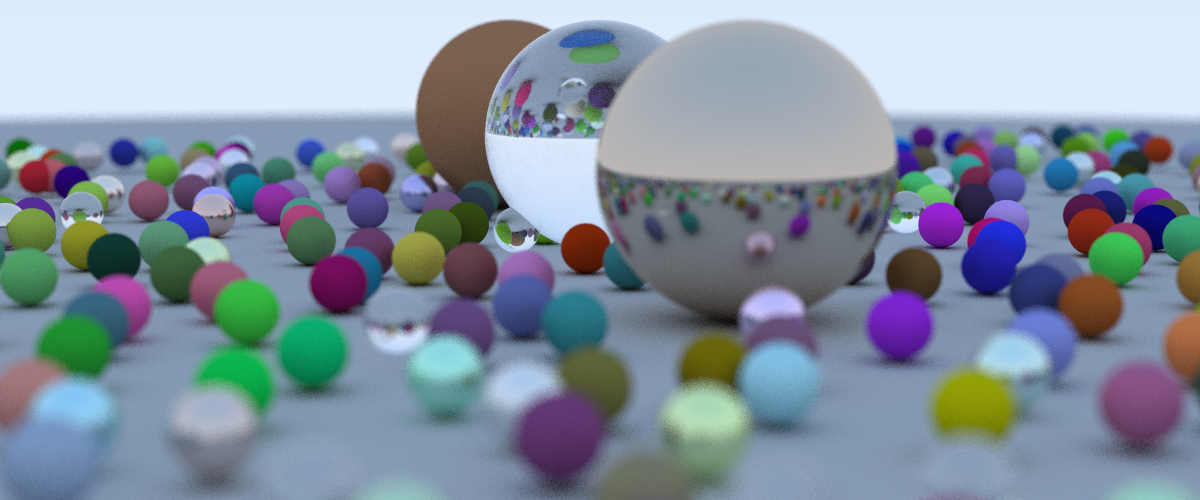
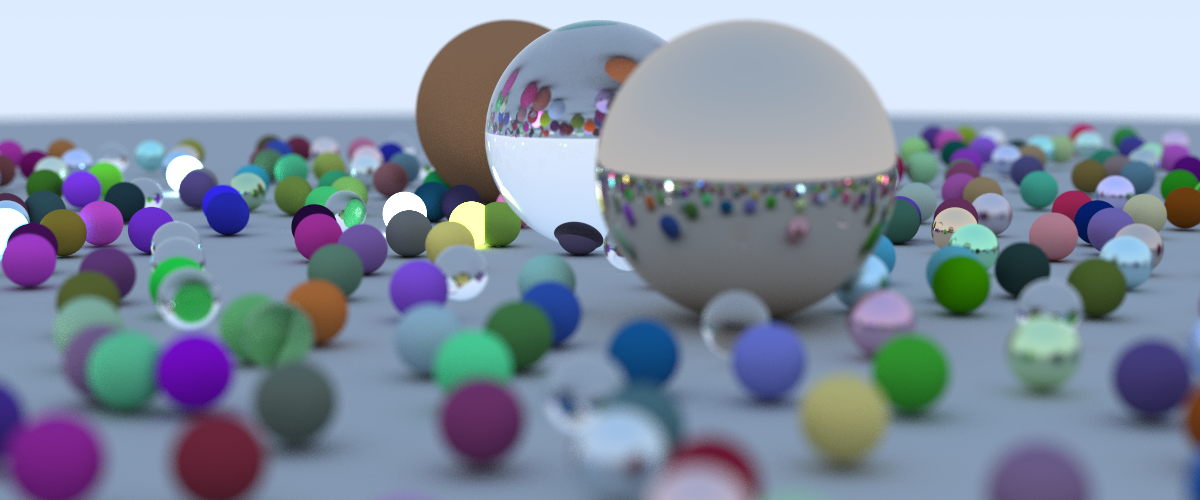
Added support for emissive materials.

diff --git a/src/main.rs b/src/main.rs
@@ -8,18 +8,32 @@ use vec3::Vec3;
 use ray::Ray;
 use camera::Camera;
 use hitable::Hitable;
-use crate::hitable::{Sphere, HitableList};
+use hitable::{Sphere, HitableList};
 use rand::{thread_rng, Rng};
-use crate::material::Material;
+use material::Material;
 use rand::prelude::ThreadRng;
 use rayon::prelude::*;
+
+// Clamps a value between two bounds
+fn clamp<T: PartialOrd>(value: T, lower: T, upper: T) -> T {
+    if value < lower {
+        lower
+    } else if value > upper {
+        upper
+    } else {
+        value
+    }
+}
 
 fn color(r: Ray, world: &dyn Hitable, depth: usize) -> Vec3 {
     match world.hit(r, 0.001, std::f64::INFINITY) {
         Some((hit_record, material)) => {
             let (scattered, attenuation, b) = material.scatter(r, hit_record.normal, hit_record.p);
+
             if depth < 50 && b {
                 color(scattered, world, depth + 1) * attenuation
+            } else if depth < 50 {
+                attenuation
             } else {
                 Vec3::new(0.0, 0.0, 0.0)
             }
@@ -41,12 +55,14 @@ fn random_scene(mut rng: ThreadRng) -> HitableList {
             let choose_mat = rng.gen::<f64>();
             let center = Vec3::new(a as f64 + 0.9 * rng.gen::<f64>(), 0.2, b as f64 + 0.9 * rng.gen::<f64>());
             if (center - Vec3::new(4.0, 0.2, 0.0)).length() > 0.9 {
-                if choose_mat < 0.8 {
+                if choose_mat < 0.75 {
                     list.push(Box::new(Sphere::new(center, 0.2, Material::Lambertian {attenuation: Vec3::new(rng.gen::<f64>() * rng.gen::<f64>(), rng.gen::<f64>() * rng.gen::<f64>(), rng.gen::<f64>() * rng.gen::<f64>())})));
-                } else if choose_mat < 0.95 {
+                } else if choose_mat < 0.90 {
                     list.push(Box::new(Sphere::new(center, 0.2, Material::Metal {attenuation: Vec3::new(0.5 * (1.0 + rng.gen::<f64>()), 0.5 * (1.0 + rng.gen::<f64>()), 0.5 * (1.0 + rng.gen::<f64>())), fuzziness: 0.5 * rng.gen::<f64>()})));
-                } else {
+                } else if choose_mat < 0.975 {
                     list.push(Box::new(Sphere::new(center, 0.2, Material::Dielectric {refraction: 1.5})));
+                } else {
+                    list.push(Box::new(Sphere::new(center, 0.2, Material::Emission {color: Vec3::new(rng.gen::<f64>(), rng.gen::<f64>(), rng.gen::<f64>()) * 10.0})));
                 }
             }
         }
@@ -63,7 +79,7 @@ fn main() {
     let width: usize = 1200;
     let height: usize = 500;
     let max_color: f64 = 255.999;
-    let samples = 100;
+    let samples = 500;
 
     let world = random_scene(thread_rng());
 
@@ -93,14 +109,15 @@ fn main() {
                 col = col / samples as f64;
                 col = Vec3::new(col.x.sqrt(), col.y.sqrt(), col.z.sqrt());
 
-                let ir: u8 = (max_color * col.x) as u8;
-                let ig: u8 = (max_color * col.y) as u8;
-                let ib: u8 = (max_color * col.z) as u8;
+                let ir: u8 = (max_color * clamp(col.x, 0.0, 1.0)) as u8;
+                let ig: u8 = (max_color * clamp(col.y, 0.0, 1.0)) as u8;
+                let ib: u8 = (max_color * clamp(col.z, 0.0, 1.0)) as u8;
 
                 part.push(ir);
                 part.push(ig);
                 part.push(ib);
             }
+            println!("row: {}", j);
             part
         })
         .flatten()

diff --git a/src/material.rs b/src/material.rs
@@ -33,6 +33,9 @@ pub enum Material {
     },
     Dielectric {
         refraction: f64
+    },
+    Emission {
+        color: Vec3
     }
 }
 
@@ -55,7 +58,13 @@ impl Material {
                 // Check to make sure the ray is not reflecting in the same direction
                 let b = scattered.direction.dot(n) > 0.0;
 
-                (scattered, *attenuation, b)
+                let color = if b {
+                    *attenuation
+                } else {
+                    Vec3::new(0.0, 0.0, 0.0)
+                };
+
+                (scattered, color, b)
             }
             Material::Dielectric {
                 refraction
@@ -89,6 +98,11 @@ impl Material {
                 };
                 let attenuation = Vec3::new(1.0, 1.0, 1.0);
                 (scattered, attenuation, true)
+            }
+            Material::Emission {
+                color
+            } => {
+                (Ray::new(p, p), *color, false)
             }
         }
     }
